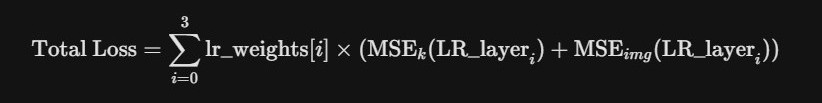
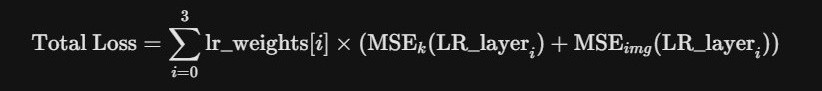
readme update

diff --git a/README.md b/README.md
@@ -50,7 +50,7 @@ The scope of this work is limited to T1-weighted fat-saturated breast MRI centra
   <img src="Results/reconstruction%20methods%20and%20acceleration%20rates.jpg" alt="Deep learning vs compressed sensing acceleration ranges" width="50%" />
 </p>
 
-<div align="center" style="padding: 0 0 20px 0;">
+<div align="center" style="padding: 0 0 40px 0;">
   <i>Figure 1. Reconstruction method families and typical acceleration ranges.</i>
 </div>
 
@@ -94,7 +94,7 @@ In-repo tooling covers stages 2 and 4 via `kst-preprocess` and `kst-split`. Raw 
 <p align="center">
   <img src="Results/Preprocessing%20Pipeline%20Summary.jpg" alt="Deep learning vs compressed sensing acceleration ranges" width="40%" />
 </p>
-<div align="center" style="padding: 0 0 20px 0;">
+<div align="center" style="padding: 0 0 40px 0;">
   <i>Figure 2. End-to-end preprocessing pipeline: raw H5 → k_data.npy → LR_k_data.npy → combined_masks.npy → train/valid/test splits.</i>
 </div>
 
@@ -102,7 +102,7 @@ In-repo tooling covers stages 2 and 4 via `kst-preprocess` and `kst-split`. Raw 
 <p align="center">
   <img src="Results/LR%20data%20generation.jpg" alt="LR k-space generation" width="60%" />
 </p>
-<div align="center" style="padding: 0 0 20px 0;">
+<div align="center" style="padding: 0 0 40px 0;">
   <i>Figure 3. Low-resolution k-space generation: HR k-space → IFFT → 2× average pooling → FFT.</i>
 </div>
 
@@ -138,7 +138,7 @@ The `KSpaceTransformer` model ([`model/transformer.py`](model/transformer.py)) l
 <p align="center">
   <img src="Results/Encoder%20Architecture.jpg" alt="Encoder architecture" width="50%" />
 </p>
-<div align="center" style="padding: 0 0 20px 0;">
+<div align="center" style="padding: 0 0 40px 0;">
   <i>Figure 4. Encoder: MLP embedding + positional encoding → N× self-attention layers.</i>
 </div>
 
@@ -146,7 +146,7 @@ The `KSpaceTransformer` model ([`model/transformer.py`](model/transformer.py)) l
 <p align="center">
   <img src="Results/Decoder%20Architecture%20%28With%20Image%20Domain%20Refinement%29.jpg" alt="Decoder architecture with image-domain refinement" width="70%" />
 </p>
-<div align="center" style="padding: 0 0 20px 0;">
+<div align="center" style="padding: 0 0 40px 0;">
   <i>Figure 5. Hierarchical decoder: 1. LR decoder (cross+self-attention) 2. HR decoder (cross-attention + refinement module).</i>
 </div>
 
@@ -186,7 +186,7 @@ A three-stage progressive training schedule ([`training/stage.py`](training/stag
 <p align="center">
   <img src="Results/LR%20Stage%20Loss%20Function.jpg" alt="LR stage loss function" width="50%" />
 </p>
-<div align="center" style="padding: 0 0 20px 0;">
+<div align="center" style="padding: 0 0 40px 0;">
   <i>Figure 6. LR stage: weighted dual-domain MSE over 4 decoder layers (8 terms).</i>
 </div>
 
@@ -196,7 +196,7 @@ A three-stage progressive training schedule ([`training/stage.py`](training/stag
   <img src="Results/Total%20loss%20in%20HR%20stage%20-%20part%201.jpg" alt="HR stage loss part 1" width="49%" />
   <img src="Results/Total%20loss%20in%20HR%20stage%20-%20part%202.jpg" alt="HR stage loss part 2" width="42%" />
 </p>
-<div align="center" style="padding: 0 0 20px 0;">
+<div align="center" style="padding: 0 0 40px 0;">
   <i>Figure 7. HR stage: LR terms + 6 HR layer dual-domain MSE (20 terms total).</i>
 </div>
 
@@ -204,7 +204,7 @@ A three-stage progressive training schedule ([`training/stage.py`](training/stag
 <p align="center">
   <img src="Results/Refinement%20Stage%20Loss%20Function.jpg" alt="Refinement stage loss" width="35%" />
 </p>
-<div align="center" style="padding: 0 0 20px 0;">
+<div align="center" style="padding: 0 0 40px 0;">
   <i>Figure 8. Refinement stage composite loss: $\lambda_1 \mathcal{L}_{L1} + \lambda_2 \mathcal{L}_\text{Perceptual} + \lambda_3 \mathcal{L}_\text{SSIM}$.</i>
 </div>
 
@@ -286,7 +286,7 @@ Install the package with `pip install -e .` and run the test suite with `python 
 <p align="center">
   <img src="Results/MRI%20Reconstruction%20Performance%20Comparison%20Image%20-%20PSNR.jpg" alt="PSNR performance comparison" width="50%" />
 </p>
-<div align="center" style="padding: 0 0 20px 0;">
+<div align="center" style="padding: 0 0 40px 0;">
   <i>Figure 9. PSNR comparison at ×10 acceleration.</i>
 </div>
 
@@ -294,7 +294,7 @@ Install the package with `pip install -e .` and run the test suite with `python 
 <p align="center">
   <img src="Results/MRI%20Reconstruction%20Performance%20Comparison%20Image%20-%20SSIM.jpg" alt="SSIM performance comparison" width="65%" />
 </p>
-<div align="center" style="padding: 0 0 20px 0;">
+<div align="center" style="padding: 0 0 40px 0;">
   <i>Figure 10. SSIM comparison across ×3 to ×10 acceleration factors.</i>
 </div>
 
@@ -308,7 +308,7 @@ During the refinement stage, the model is trained exclusively using a composite 
 <p align="center">
   <img src="Results/dual_stage_mse_loss_curve.png" alt="Dual-stage MSE loss curve" width="70%" />
 </p>
-<div align="center" style="padding: 0 0 20px 0;">
+<div align="center" style="padding: 0 0 40px 0;">
   <i>Figure 11. LR + HR stage MSE loss (epochs 0–150). Spike at epoch 51 reflects 8→20 loss terms; final val MSE ≈ 0.023.</i>
 </div>
 
@@ -316,7 +316,7 @@ During the refinement stage, the model is trained exclusively using a composite 
 <p align="center">
   <img src="Results/refinement_stage_composite_loss_curve.png" alt="Refinement stage composite loss" width="70%" />
 </p>
-<div align="center" style="padding: 0 0 20px 0;">
+<div align="center" style="padding: 0 0 40px 0;">
   <i>Figure 12. Refinement stage composite loss (epochs 150–310); final val ≈ 0.204.</i>
 </div>
 
@@ -344,7 +344,7 @@ During the refinement stage, the model is trained exclusively using a composite 
     (d)
   </span>
 </p>
-<div align="center" style="padding: 0 0 20px 0;">
+<div align="center" style="padding: 0 0 40px 0;">
   <i>Figure 13. Qualitative reconstruction on a representative breast MRI slice at undersampled acquisition. (a) Coherent aliasing streaks obscure tissue structure. (b) Global anatomy restored; relatively soft edges, incomplete fine detail. (c) Sharper boundaries, reduced ringing, improved fibroglandular texture. (d) Fully sampled reference.</i>
 </div>
 
